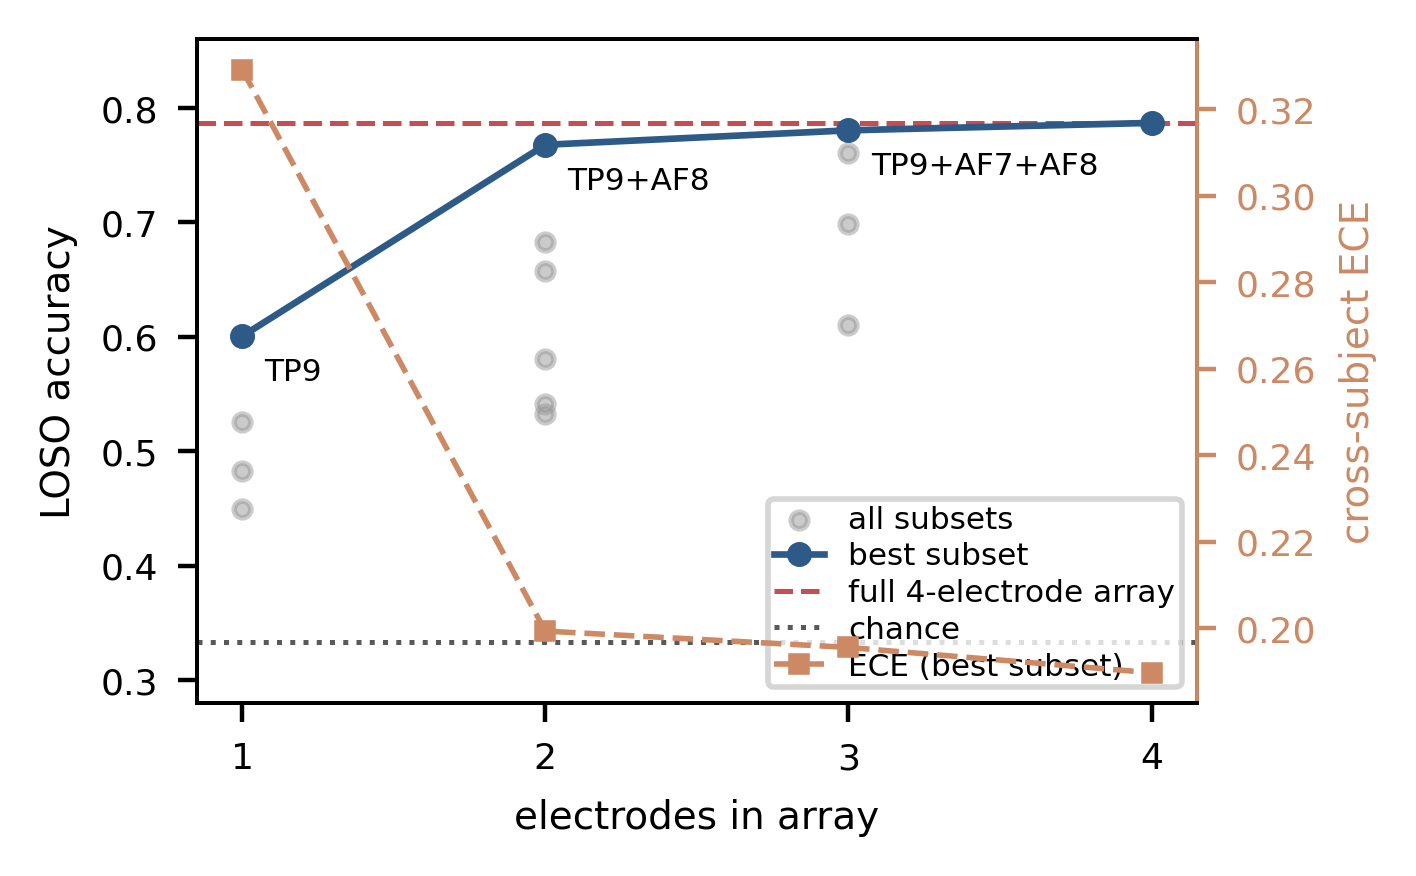
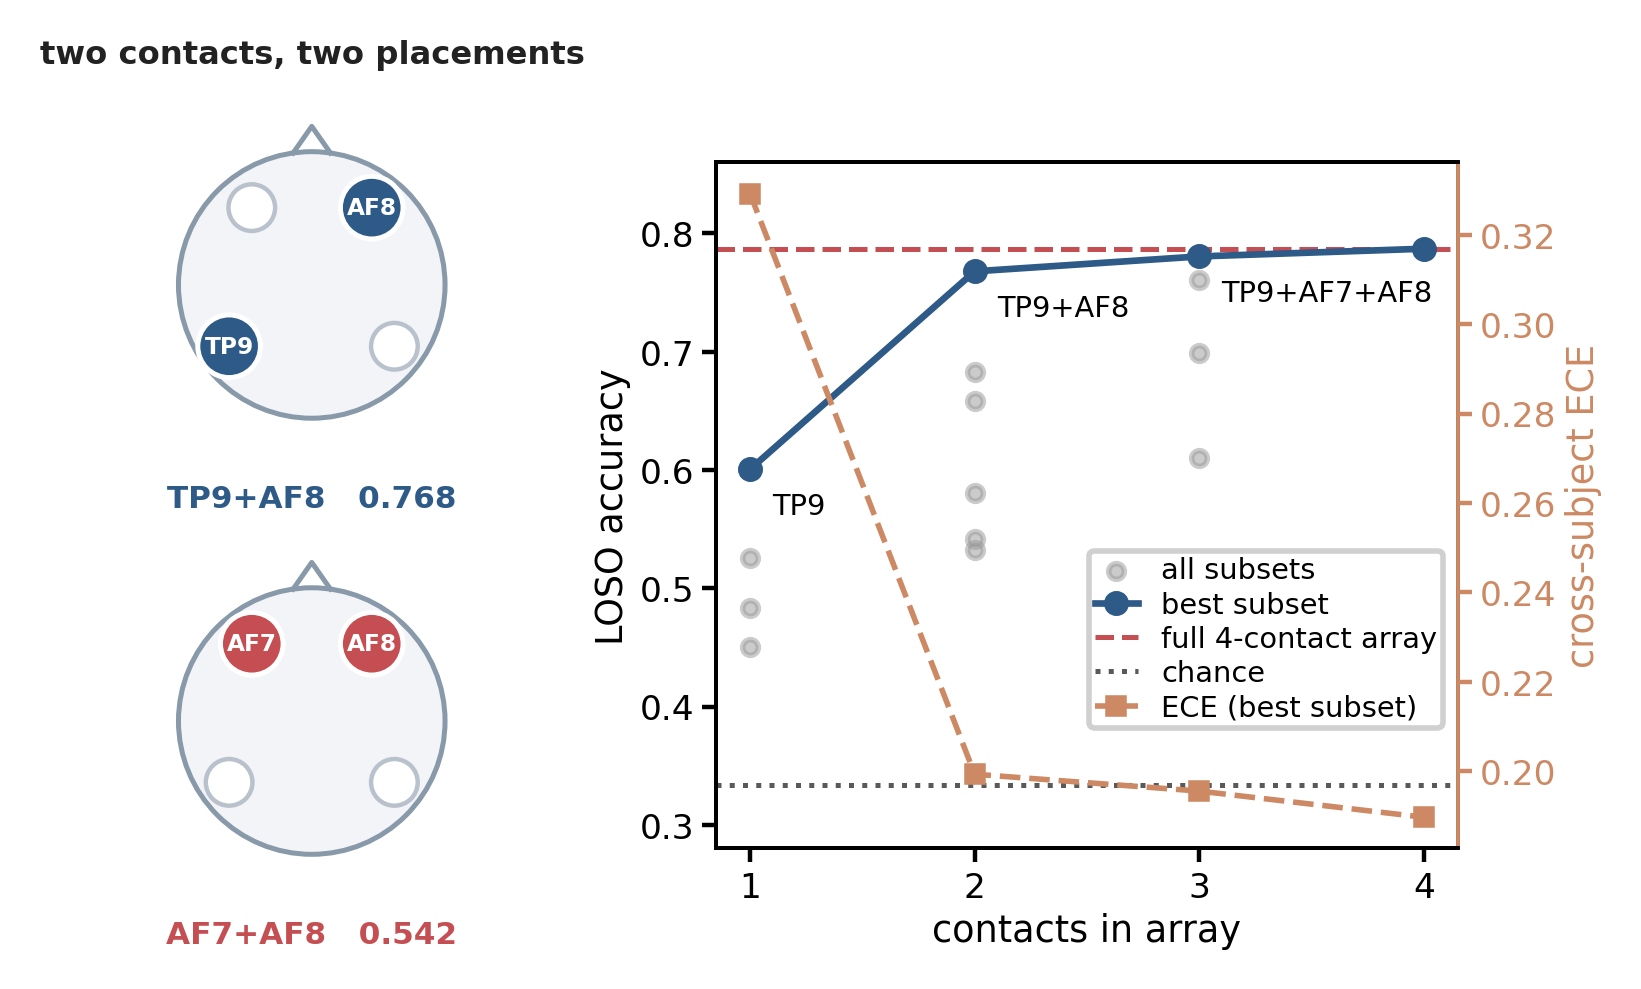
Fig. 1 now shows the electrode geometry behind the placement result

diff --git a/code/make_sensor_figures.py b/code/make_sensor_figures.py
@@ -36,41 +36,84 @@ def save(fig, name):
     print("wrote", name)
 
 
-# ---- Fig. 4: electrode-count reduction -----------------------------------
+# ---- Fig. 4: electrode geometry + array-count reduction --------------------
+# The head schematics carry the central claim: the two-contact array that works
+# is a temporal-frontal diagonal, while a co-located frontal pair of the same
+# size does not. Without the geometry the reader cannot see why.
+from matplotlib.patches import Circle, Ellipse
+
 d = pd.read_csv(os.path.join(R, "sensor_electrode_ablation.csv"))
 full = d[d.n_ch == 4].iloc[0]
 best = d.sort_values("acc", ascending=False).groupby("n_ch").first().reset_index()
+acc_of = dict(zip(d.electrodes, d.acc))
 
-fig, ax = plt.subplots(figsize=(COL, 2.05))
+SITES = {"TP9": (-0.62, -0.46), "AF7": (-0.45, 0.58),
+         "AF8": (0.45, 0.58), "TP10": (0.62, -0.46)}
+
+
+def mini_head(ax, keep, label, value, good=True):
+    ax.set_axis_off(); ax.set_xlim(-1.25, 1.25); ax.set_ylim(-1.30, 1.30)
+    ax.set_aspect("equal")
+    ax.add_patch(Circle((0, 0), 1.0, fc="#F2F4F7", ec="#8899AA", lw=0.9))
+    ax.plot([-0.14, 0, 0.14], [0.99, 1.19, 0.99], color="#8899AA", lw=0.9,
+            solid_joinstyle="round")
+    col = C_ACC if good else "#C44E52"
+    for name, (x, y) in SITES.items():
+        if name in keep:
+            ax.add_patch(Circle((x, y), 0.235, fc=col, ec="white", lw=0.9,
+                                zorder=3))
+            ax.text(x, y, name, color="white", fontsize=4.2, weight="bold",
+                    ha="center", va="center", zorder=4)
+        else:
+            ax.add_patch(Circle((x, y), 0.175, fc="white", ec="#B9C2CC",
+                                lw=0.8, zorder=3))
+    ax.text(0, -1.60, f"{label}   {value:.3f}", fontsize=5.6, weight="bold",
+            color=col, ha="center", va="center")
+
+
+fig = plt.figure(figsize=(COL, 2.45))
+axH1 = fig.add_axes([0.015, 0.560, 0.245, 0.360])
+axH2 = fig.add_axes([0.015, 0.115, 0.245, 0.360])
+mini_head(axH1, {"TP9", "AF8"}, "TP9+AF8", acc_of["TP9+AF8"], good=True)
+mini_head(axH2, {"AF7", "AF8"}, "AF7+AF8", acc_of["AF7+AF8"], good=False)
+fig.text(0.138, 0.975, "two contacts, two placements", fontsize=5.8,
+         weight="bold", ha="center", va="center", color="#222")
+
+ax = fig.add_axes([0.435, 0.165, 0.545, 0.700])
 for k in sorted(d.n_ch.unique()):
     sub = d[d.n_ch == k]
-    ax.scatter([k] * len(sub), sub.acc, s=9, alpha=0.5, color="0.6", zorder=2,
+    ax.scatter([k] * len(sub), sub.acc, s=8, alpha=0.5, color="0.6", zorder=2,
                label="all subsets" if k == 1 else None)
 ax.plot(best.n_ch, best.acc, "o-", color=C_ACC, zorder=3, label="best subset")
 ax.axhline(full.acc, ls="--", lw=0.9, color=C_REF, zorder=1,
-           label="full 4-electrode array")
+           label="full 4-contact array")
 ax.axhline(1 / 3, ls=":", lw=0.9, color="0.35", zorder=1, label="chance")
 for _, row in best.iterrows():
     if row.n_ch < 4:
-        ax.annotate(row.electrodes, (row.n_ch, row.acc), fontsize=5.6,
+        ax.annotate(row.electrodes, (row.n_ch, row.acc), fontsize=5.2,
                     textcoords="offset points", xytext=(4, -8))
-ax.set_xticks([1, 2, 3, 4])
-ax.set_xlabel("electrodes in array"); ax.set_ylabel("LOSO accuracy")
-ax.set_ylim(0.28, 0.86)
+ax.set_xticks([1, 2, 3, 4]); ax.set_ylim(0.28, 0.86)
+ax.set_xlabel("contacts in array", fontsize=6.6, labelpad=1.5)
+ax.set_ylabel("LOSO accuracy", fontsize=6.6, labelpad=1.5)
+ax.tick_params(labelsize=6.2, length=2.5, pad=1.5)
 
 axr = ax.twinx()
 axr.plot(best.n_ch, best.ece, "s--", color=C_ECE, ms=3, lw=1.0,
          label="ECE (best subset)")
-axr.set_ylabel("cross-subject ECE", color=C_ECE)
-axr.tick_params(axis="y", colors=C_ECE, labelsize=6.5)
+axr.set_ylabel("cross-subject ECE", color=C_ECE, fontsize=6.6, labelpad=1.5)
+axr.tick_params(axis="y", colors=C_ECE, labelsize=6.2, length=2.5, pad=1.5)
 axr.grid(False); axr.spines["right"].set_visible(True)
 axr.spines["right"].set_color(C_ECE); axr.spines["right"].set_linewidth(0.7)
 
 h1, l1 = ax.get_legend_handles_labels(); h2, l2 = axr.get_legend_handles_labels()
-ax.legend(h1 + h2, l1 + l2, loc="lower right", ncol=1, fontsize=5.6,
-          handlelength=1.6, borderpad=0.2, labelspacing=0.25)
-save(fig, "fig4_electrode_ablation")
-
+ax.legend(h1 + h2, l1 + l2, loc="lower right", bbox_to_anchor=(1.0, 0.155),
+          fontsize=5.2, handlelength=1.5, borderpad=0.2, labelspacing=0.22,
+          framealpha=0.92)
+for ext in ("pdf", "png"):
+    fig.savefig(os.path.join(FG, f"fig4_electrode_ablation.{ext}"), dpi=400,
+                bbox_inches="tight")
+plt.close(fig)
+print("wrote fig4_electrode_ablation")
 
 # ---- Fig. 5: interference resilience -------------------------------------
 n = pd.read_csv(os.path.join(R, "sensor_noise_resilience.csv"))

diff --git a/code/make_graphical_abstract.py b/code/make_graphical_abstract.py
@@ -129,9 +129,10 @@ axB.axhline(1 / 3, ls=":", lw=1.0, color=GREY, zorder=2)
 axB.annotate(f"{pair:.3f}\n97.6% of full", xy=(2, pair), xytext=(2.2, 0.545),
              fontsize=6.0, color=NAVY, weight="bold", linespacing=1.2,
              arrowprops=dict(arrowstyle="-", color=NAVY, lw=0.8))
-axB.text(4.05, full, "4 contacts", fontsize=5.6, color=RED, va="bottom",
-         ha="right")
-axB.text(0.95, 1 / 3, "chance", fontsize=5.4, color=GREY, va="bottom")
+axB.text(4.05, full + 0.016, "4 contacts", fontsize=5.6, color=RED,
+         va="bottom", ha="right")
+axB.text(0.95, 1 / 3 + 0.016, "chance", fontsize=5.4, color=GREY,
+         va="bottom")
 axB.set_xticks([1, 2, 3, 4]); axB.set_xlim(0.7, 4.3); axB.set_ylim(0.28, 0.87)
 axB.set_yticks([0.4, 0.6, 0.8])
 axB.tick_params(labelsize=5.9, length=2.5, pad=1.5)
